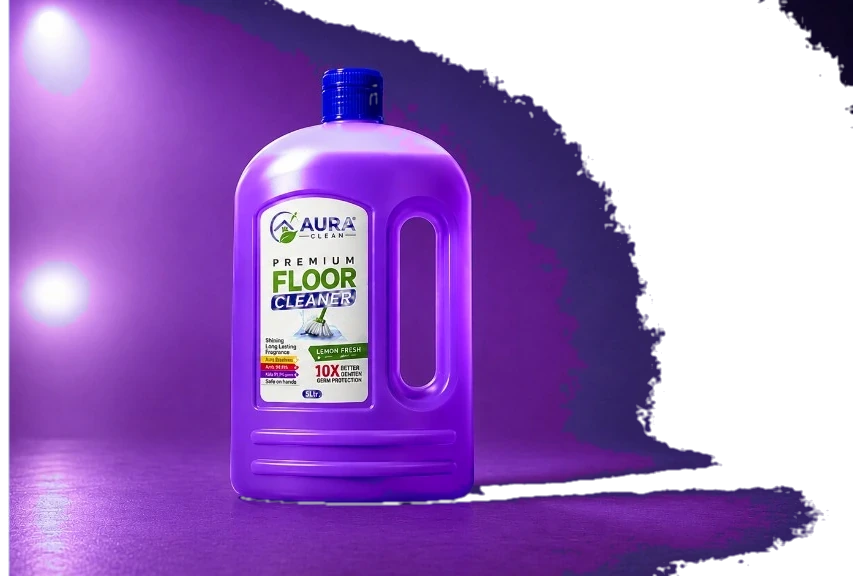
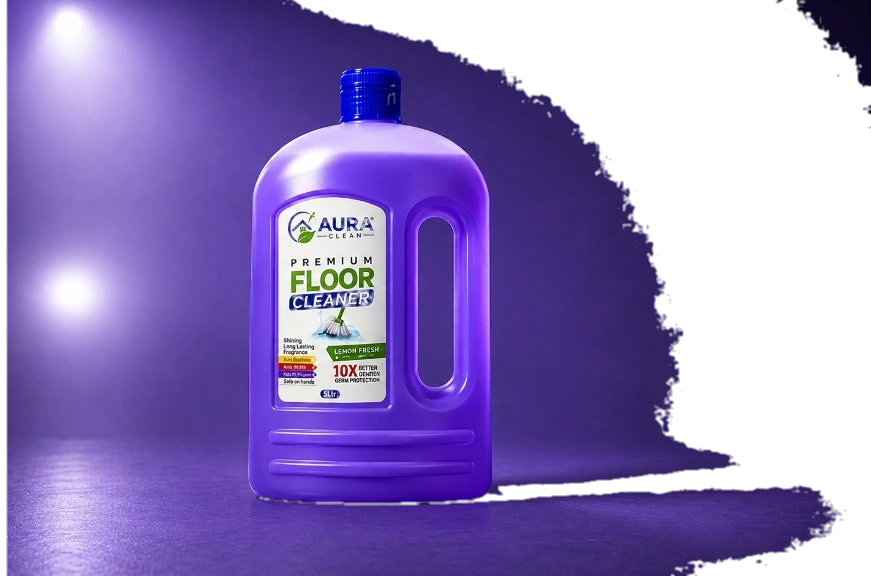
Use the new Premium Floor Cleaner pack photo across floor variants.
Replace floor cleaner imagery with the latest 5 Ltr Lemon Fresh jug shot for catalog and hero.

diff --git a/src/data/products.ts b/src/data/products.ts
@@ -113,7 +113,7 @@ export const PRODUCTS: Product[] = [
     id: "floor",
     name: "Premium Floor Cleaner",
     category: "floor",
-    src: "/lavender-floor.webp",
+    src: "/product-floor-lemon.webp?v=2",
     tone: "#7b4fd1",
     blurb: "Shining long-lasting fragrance with 10X germ protection — three fresh options.",
     spec: "10X Better Germ Protection",
@@ -122,19 +122,19 @@ export const PRODUCTS: Product[] = [
       {
         id: "lavender",
         label: "Lavender",
-        src: "/lavender-floor.webp",
+        src: "/product-floor-lemon.webp?v=2",
         tone: "#7b4fd1",
       },
       {
         id: "lemon",
         label: "Lemon",
-        src: "/product-floor-lemon.webp?v=1",
+        src: "/product-floor-lemon.webp?v=2",
         tone: "#8a6a20",
       },
       {
         id: "rose",
         label: "Rose",
-        src: "/product-floor-rose.webp?v=1",
+        src: "/product-floor-lemon.webp?v=2",
         tone: "#9b4fc4",
       },
     ],

diff --git a/src/components/Hero.tsx b/src/components/Hero.tsx
@@ -141,7 +141,7 @@ const VARIANTS = [
   },
   {
     id: "floor",
-    src: "/product-floor-lemon.webp?v=1",
+    src: "/product-floor-lemon.webp?v=2",
     name: "Floor",
     line: "Floor Cleaner - Lemon Liquid",
     word: "SHINE",
